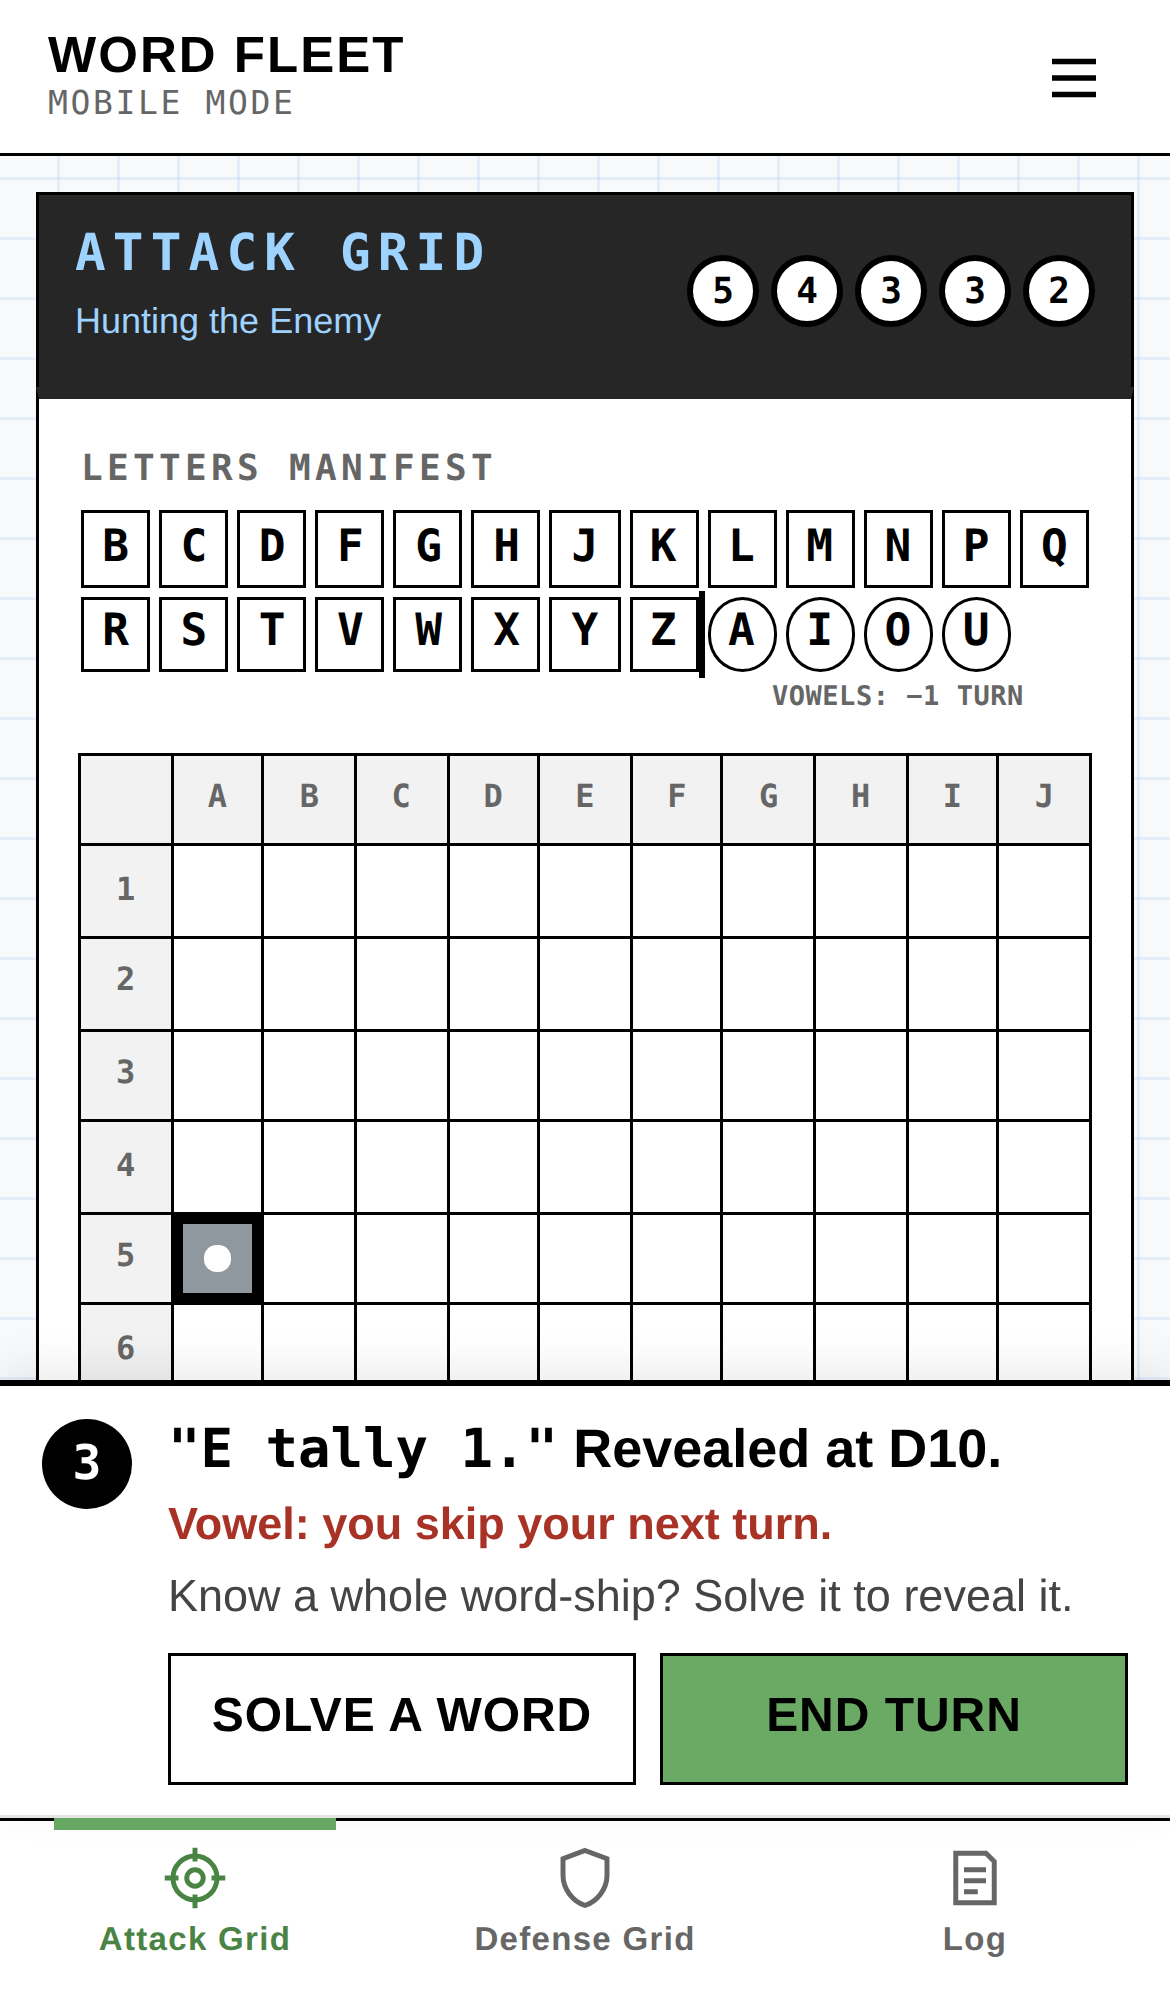
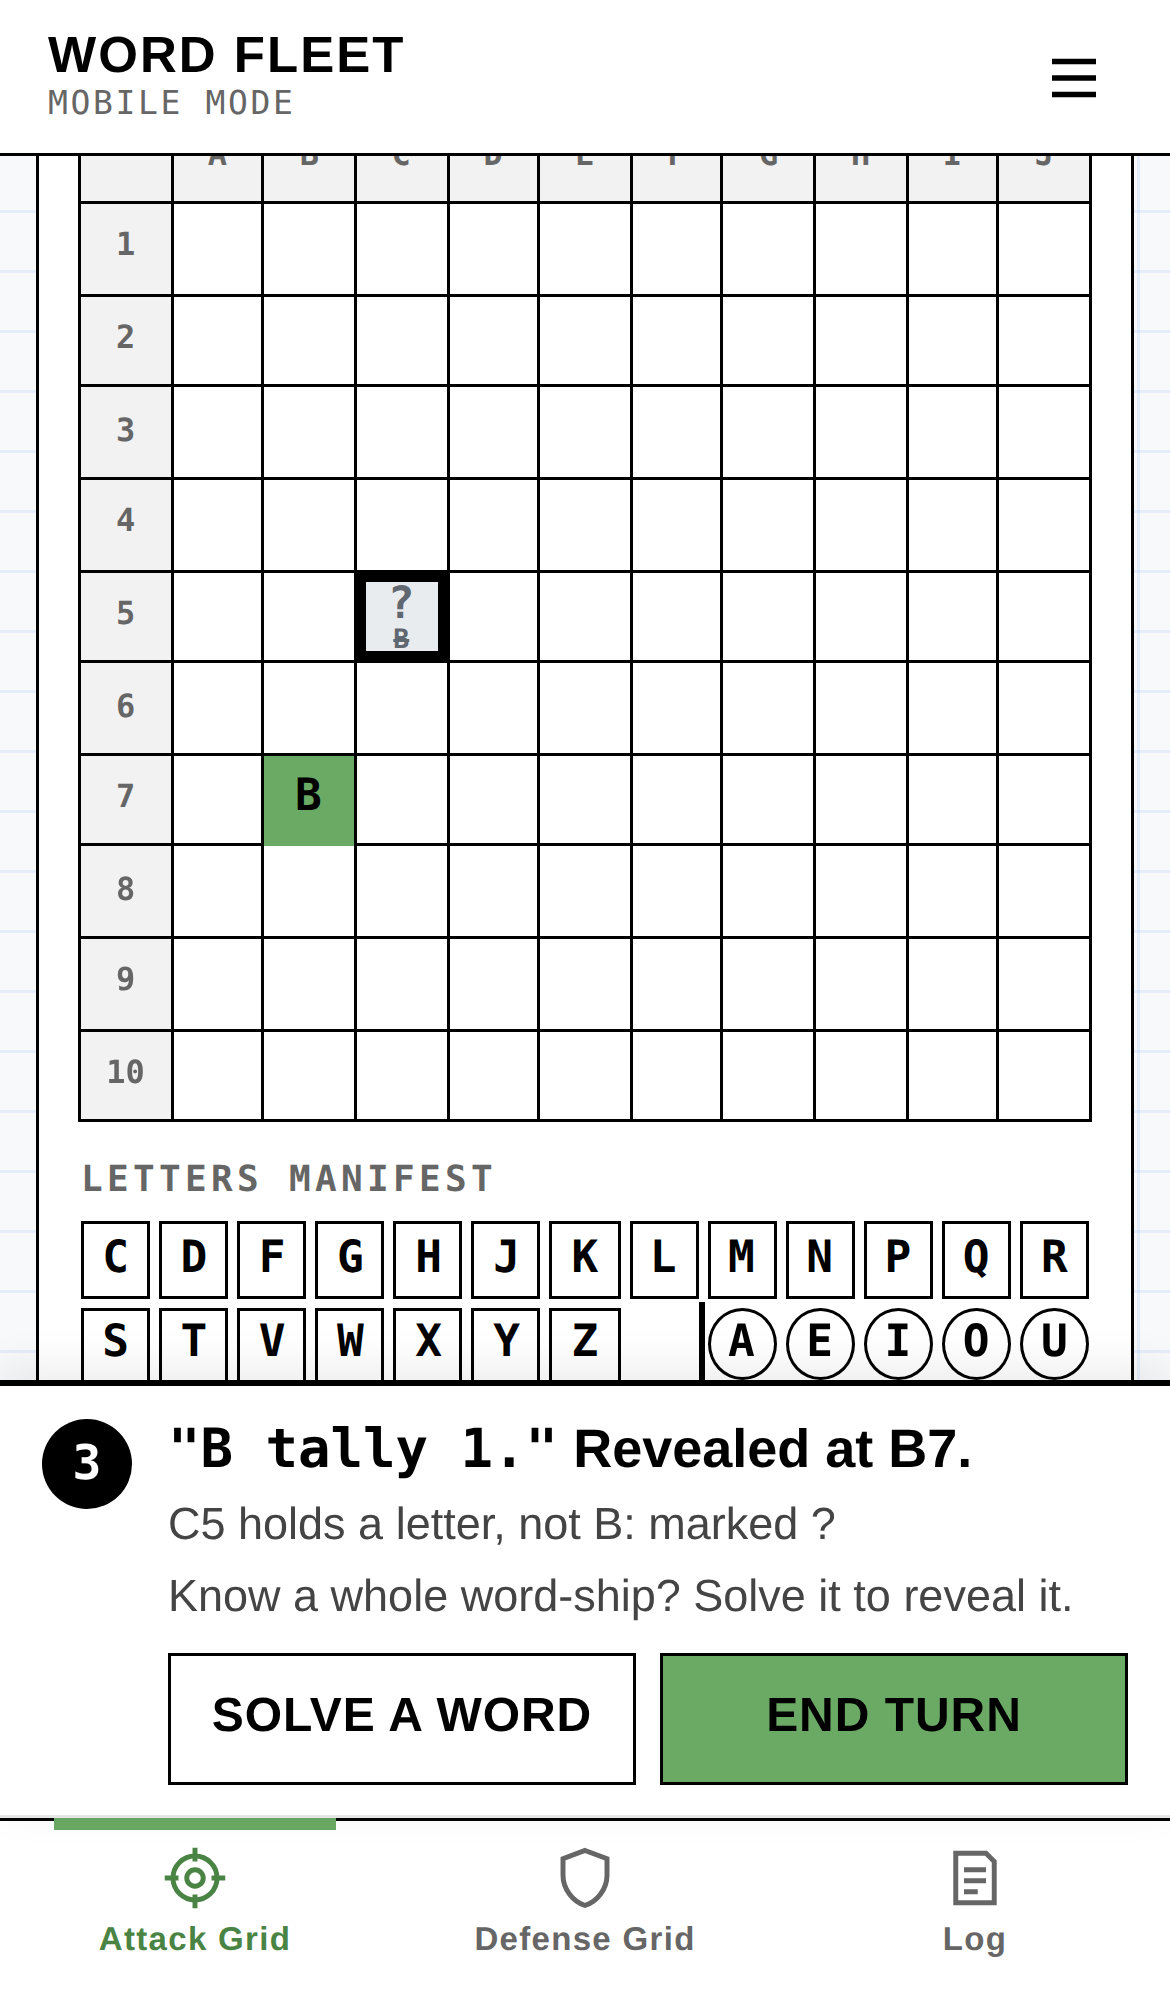
Contact squares and letters manifests under the grids
A square known to hold a hidden letter shows a gray ? with the letters ruled out
there; the Defense Grid marks the AI Captain's the same way. Both letters manifests
move under their grid; aiming scrolls the manifest clear of the coach bar. v131.

Claude-Session: https://claude.ai/code/session_013sUGAAEC45a1EJCrQWVj9Q

diff --git a/mobile/app.js b/mobile/app.js
@@ -738,7 +738,7 @@
   // Can the Human Captain pick a square and call a letter right now?
   function canCall() { return S.turn === 'me' && (!S.result || S.result.bonus) && !ui.demand; }
 
-  // Tapping a hidden square aims at it; the Letters Manifest above the grid then takes the letter.
+  // Tapping a hidden square aims at it; the Letters Manifest under the grid then takes the letter.
   // Tapping the same square again cancels the aim.
   function openManifest(k) {
     if (!canCall()) return;
@@ -748,8 +748,12 @@
     if (S.result && S.result.bonus) S.result = null;
     sfx('select');
     renderAttack();
-    var strip = $('uncalled');
-    if (strip && strip.scrollIntoView) strip.scrollIntoView({ block: 'nearest', behavior: 'smooth' });
+    // Bring the manifest (under the grid) into view above the coach bar.
+    var strip = $('uncalled'), coach = $('coach');
+    if (strip && coach) {
+      var gap = strip.getBoundingClientRect().bottom - coach.getBoundingClientRect().top + 12;
+      if (gap > 0) window.scrollBy({ top: gap, behavior: 'smooth' });
+    }
   }
 
   function renderAttack() {
@@ -765,7 +769,8 @@
     paint($('gridAttack'), function (r, c) {
       var k = key(r, c);
       var s = S.myShots[k];
-      var o = s && s.letter ? { cls: 'is-bull', text: s.letter, off: true } : s && s.empty ? { cls: 'is-empty', off: true } : {};
+      var o = s && s.letter ? { cls: 'is-bull', text: s.letter, off: true } : s && s.empty ? { cls: 'is-empty', off: true } :
+        s && s.tried ? { cls: 'is-contact', text: '<span class="q">?</span>' + triedHtml(s) } : {};
       if (ui.sel === k && !(s && s.letter)) o.cls = (o.cls || '') + ' is-target';
       // The story of your call, told on the grid: new letters flip in one by one, and the square
       // you aimed at keeps a marker (gold ✓ when the letter was there) until your turn ends.
@@ -837,7 +842,7 @@
       if (hint) sub.push('It calls a letter on your fleet. Watch the Defense Grid.');
     } else if (ui.sel) {
       step = '2'; main = 'Call a letter for <b>' + coordK(ui.sel) + '</b>: tap it in the Letters Manifest.';
-      if (hint) sub.push('Tap another square to re-aim, or ' + coordK(ui.sel) + ' again to cancel. Vowels (red) cost your next turn.');
+      if (hint) sub.push('Tap another square to re-aim, or ' + coordK(ui.sel) + ' again to cancel. Vowels (round) cost your next turn.');
     } else if (r && info && info.bonus) {
       cls = 'is-bonus'; step = '\u2605';
       main = 'Bonus turn! <b>' + info.L + '</b> was at <b>' + coordK(info.k) + '</b>. Tap another square.';
@@ -847,6 +852,7 @@
       step = '3';
       main = '<span class="say">"' + info.L + ' tally ' + info.t + '."</span> ' +
         (info.t ? 'Revealed at ' + info.cells.map(coordK).join(', ') + '.' : info.open ? coordK(info.k) + ' is open water.' : info.L + ' isn\'t in their fleet.');
+      if (!info.open && !info.bonus) sub.push(coordK(info.k) + ' holds a letter, not ' + info.L + ': marked ?');
       if (info.vowel) sub.push('<span class="coach-warn">Vowel: you skip your next turn.</span>');
       if (r.solveRes) sub.push('Solve ' + r.solveRes.word + ': ' + (r.solveRes.ok ? '<b>Correct.</b>' : '<b>Negative.</b>'));
       else if (hint && r.solve) sub.push('Know a whole word-ship? Solve it to reveal it.');
@@ -869,6 +875,8 @@
       sub.map(function (x) { return '<div class="coach-sub">' + x + '</div>'; }).join('') +
       (btns ? '<div class="coach-btns">' + btns + '</div>' : '') + '</div>';
     fitButtons(el);
+    // Leave room to scroll the bottom of the tab (the letters manifest) clear of the coach bar.
+    document.documentElement.style.setProperty('--coach-h', el.offsetHeight + 'px');
   }
 
   function renderDefense() {
@@ -885,10 +893,10 @@
       var k = key(r, c);
       var cell = b[k];
       var s = S.foeShots[k];
-      var cls = cell ? 'is-ship' + (s && s.letter ? ' is-ship-lost' : '') : s && s.empty ? 'is-empty' : '';
+      var cls = cell ? 'is-ship' + (s && s.letter ? ' is-ship-lost' : s && s.tried ? ' is-contact' : '') : s && s.empty ? 'is-empty' : '';
       if (ui.tab === 'Defense' && (S.incoming || []).some(function (e) { return e.square === k; })) cls += ' is-aimed';
       if (flashing && ev.cells && ev.cells.indexOf(k) !== -1) cls += ' is-flash';
-      return { cls: cls, text: cell ? cell.letter : '' };
+      return { cls: cls, text: cell ? cell.letter + triedHtml(s) : '' };
     }, false);
     // Letters the AI Captain has not called yet; the ones in your fleet (still at risk) are outlined in your colors.
     var mineCount = letterCounts(S.me.words);
@@ -923,6 +931,18 @@
   }
 
   // Every square holding L is revealed, wherever it is. Returns the newly revealed squares.
+  // A square known to hold a letter that is still hidden: remember the letters ruled out there.
+  function markContact(shots, k, L) {
+    var s = shots[k] || {};
+    if (s.letter) return;
+    s.tried = (s.tried || []).concat(L);
+    shots[k] = s;
+  }
+  // The ruled-out letters, small along the bottom of the square (the last three).
+  function triedHtml(s) {
+    return s && s.tried && !s.letter ? '<span class="tried">' + s.tried.slice(-3).join('') + '</span>' : '';
+  }
+
   function revealLetter(shots, board, L) {
     var cells = [];
     Object.keys(board).forEach(function (k) {
@@ -974,6 +994,7 @@
     S.notice = null;
     ui.sel = null;
     if (!at) S.myShots[k] = { empty: true };   // open water: marked with a white dot
+    else if (!bonus) markContact(S.myShots, k, L);   // holds another letter: marked ? with L ruled out
     if (vowel) S.skip.me = true;
     var cells = revealLetter(S.myShots, foeBoard(), L);
     ui.flash = cells;
@@ -1200,7 +1221,7 @@
     }
     if (best) return best;
     var hidden = [];
-    for (var r = 0; r < 10; r++) for (var c = 0; c < 10; c++) if (!sh[key(r, c)]) hidden.push(key(r, c));
+    for (var r = 0; r < 10; r++) for (var c = 0; c < 10; c++) { var h = sh[key(r, c)]; if (!h || !(h.letter || h.empty)) hidden.push(key(r, c)); }
     return pick(hidden);
   }
 
@@ -1236,6 +1257,7 @@
     S.turns++;
     S.foeTallies[L] = t;
     if (!at) S.foeShots[k] = { empty: true };
+    else if (!bonus) markContact(S.foeShots, k, L);
     if (vowel) S.skip.foe = true;
     var ev = { letter: L, square: k, tally: t, vowel: vowel, bonus: bonus, cells: revealLetter(S.foeShots, myBoard(), L) };
     log('foe', coordK(k) + ': "Calling ' + NATO[L] + '!" &mdash; <span class="say">"' + L + ' tally ' + t + '."</span>' +

diff --git a/mobile/index.html b/mobile/index.html
@@ -18,7 +18,7 @@
   <link rel="preconnect" href="https://fonts.gstatic.com" crossorigin>
   <link href="https://fonts.googleapis.com/css2?family=Courier+Prime:wght@400;700&family=Inter:wght@400;500;600;700&display=swap" rel="stylesheet">
   <!-- Bump ?v= on every release (and CACHE in sw.js) so a new page never runs old code. -->
-  <link rel="stylesheet" href="app.css?v=130">
+  <link rel="stylesheet" href="app.css?v=131">
 </head>
 <body>
 
@@ -154,8 +154,8 @@
       </div>
       <div class="card card--flush card--attack">
         <!-- Letters still to call; they disappear as you call them (called ones show on the grid) -->
-        <div class="uncalled" id="uncalled" aria-label="Letters not yet called"></div>
         <div class="grid" id="gridAttack"></div>
+        <div class="uncalled" id="uncalled" aria-label="Letters not yet called"></div>
       </div>
     </div>
 
@@ -169,8 +169,8 @@
       </div>
       <div class="card card--flush card--defense">
         <!-- Letters the AI Captain hasn't called yet; yours (still at risk) outlined in your colors -->
-        <div class="uncalled" id="defUncalled" aria-label="Letters the AI Captain has not called yet"></div>
         <div class="grid" id="gridDefense"></div>
+        <div class="uncalled" id="defUncalled" aria-label="Letters the AI Captain has not called yet"></div>
       </div>
     </div>
 
@@ -243,7 +243,7 @@
 <div class="coach coach--notice" id="notice" role="alert" aria-live="assertive" hidden></div>
 <div class="bonus-banner" id="bonusBanner" role="status" aria-live="assertive" hidden></div>
 
-<script src="audio.js?v=130"></script>
-<script src="app.js?v=130"></script>
+<script src="audio.js?v=131"></script>
+<script src="app.js?v=131"></script>
 </body>
 </html>

diff --git a/mobile/app.css b/mobile/app.css
@@ -710,3 +710,16 @@ button.uc:active { background: var(--mine, var(--navy)); color: var(--mine-ink, 
 .uc.is-vowel { border-radius: 50%; aspect-ratio: 1 / 1; }
 .uc-vowels-cap { grid-row: 4; grid-column: 9 / -1; font-family: var(--mono); font-size: 9px; font-weight: 700; letter-spacing: 0.02em;
   text-transform: uppercase; color: var(--muted); text-align: right; white-space: nowrap; overflow: hidden; }
+
+/* A square known to hold a hidden letter: "?" plus the letters already ruled out there */
+.cell.is-contact { background: #e9ecef; }
+.cell.is-contact .q { color: #5f6770; margin-top: -18%; }
+.cell .tried { position: absolute; left: 0; right: 0; bottom: 1px; font-size: max(8px, calc(var(--cell) * 0.3)); line-height: 1; font-weight: 700;
+  letter-spacing: 0; text-align: center; color: #5f6770; }
+.cell.is-target .q, .cell.is-target .tried { color: var(--paper); }
+.cell.is-ship.is-contact { background: var(--blue-wash); box-shadow: inset 0 0 0 2px #5f6770; }
+.cell.is-ship .tried { color: var(--ink); }
+
+/* Letters manifests sit under their grid, inside the grid's card */
+.uncalled { padding: 10px 2px 2px; }
+#scrBattle .tab { padding-bottom: calc(var(--coach-h, 150px) + 16px); }

diff --git a/mobile/sw.js b/mobile/sw.js
@@ -1,11 +1,11 @@
 /* Word Fleet service worker: the whole game works offline once loaded. */
-var CACHE = 'wordfleet-v130';
+var CACHE = 'wordfleet-v131';
 var SHELL = [
   './',
   'index.html',
-  'app.css?v=130',
-  'app.js?v=130',
-  'audio.js?v=130',
+  'app.css?v=131',
+  'app.js?v=131',
+  'audio.js?v=131',
   'manifest.webmanifest',
   'icons/icon-180.png',
   'icons/icon-192.png',

diff --git a/mobile/screens/README.md b/mobile/screens/README.md
@@ -13,9 +13,9 @@ referred to by name when asking for changes. Each has a reference snapshot in th
 | **003-MOBILE-WORD-SHIPS** | `<section id="scrWords" data-screen="003-MOBILE-WORD-SHIPS">`, `SCREENS.words` | `003-mobile-word-ships.png` | Header line: your flag and fleet name. Card title "Build Your Word-Ships". "Allow possibly offensive words" switch ("Applies to both fleets. Switching it draws five new word-ships."): flipping it either way redraws all five words to follow the new setting. With it on, possibly offensive words come up slightly more often (a 10% nudge per word, `OFFENSIVE_NUDGE`); never-suggested words still never do. Suggested and redrawn words always come from the chosen AI Captain's word level. Section "Check your five word-ships" with ↻ REBUILD ALL; "Tap any word-ship to type your own." Possibly offensive words show in red. Each word has a ↻ redraw; a typed word is checked against the dictionary when its box loses focus, and all are checked on "NEXT: DEPLOY" (75%). Back. |
 | *(notices, 001-004)* | `#notice` (`showNotice`, `toast`, `setupNotice` in app.js) | `notice-003.png` | Prepare-section notices use the battle coach bar's look: docked at the bottom, a red **!** marker, the first sentence bold and the rest smaller. 003 shows word-ship problems there until fixed; 004 flashes "won't fit" for a moment. |
 | **004-MOBILE-DEPLOY** | `<section id="scrDeploy" data-screen="004-MOBILE-DEPLOY">`, `SCREENS.deploy` | `004-mobile-deploy.png` | Step 4 of 4 of Prepare for Battle, same look as 001-003; header line: your flag and fleet name. Card title "Deploy Your Fleet", then the Defense Grid dressed like the in-game one ("DEFENSE GRID PREVIEW" banner with your fleet name under it, in your fleet's colors from 001: color 1 behind, color 2 for the text, color 1 along the top edge). Opens with the five word-ships already deployed at random, in green; they never leave the grid. Section "Keep this layout or rearrange it" with ⇄ SHUFFLE (new random layout); drag a ship to move it, double-tap its first letter to turn it. "LET THE BATTLE BEGIN!" (progress bar full), Back. |
-| **005-MOBILE-ATTACK** | `<div id="tabAttack" data-screen="005-MOBILE-ATTACK">` in `#scrBattle`; coach bar `#coach` | `005-mobile-attack.png`, `005-mobile-bonus-turn.png`, `005-mobile-solve.png` | Battle, Attack Grid tab: the Attack Grid under a banner in your fleet colors ("ATTACK GRID / Hunting the Enemy"), with the **Letters Manifest** strip above the grid: every letter not yet called, each dropping out once called: consonants first, then the vowels set apart at the end of the second row as round chips behind a divider, captioned "VOWELS: −1 TURN". The AI Letters Manifest on the Defense Grid uses the same layout. Tap a square to aim (the manifest lights up and its letters become buttons), then tap a letter to call it; tap another square to re-aim or the same square to cancel. There is no letter-picker popup. Called letters show on the grid. The **coach bar** above the tabs always says what to do next, with a step marker and at most two buttons: ① "Your turn. Tap a square to aim." (with everything since your last turn folded into one line above it, e.g. "AI: E at A9 (0) · you lost a turn (vowel)") → ② "Call a letter for D4" → ③ '"T tally 2." Revealed at D6, C6' with SOLVE A WORD and END TURN; ★ gold for a bonus turn; "AI Captain is aiming…" on its turn. The grid tells the story: new letters flip in one by one, the aimed square keeps a marker (gold ✓ when the letter was there), the called letter drops out of the Letters Manifest. Bonus turn also plays the bell-and-fanfare and flashes "★ BONUS TURN!". Longer hints for a captain's first two calls, or with Hints on in the ☰ menu. Solve a Word (`005-MOBILE-SOLVE`) and Demand Surrender (009, ☰ menu only) are the only popups. The AI's turn no longer jumps to the Defense tab; its tab gets a red dot. |
-| **006-MOBILE-CALL-LETTER** | state of 005: `#uncalled.is-picking` | `006-mobile-call-letter.png` | No longer a popup. After you tap a hidden square, the Letters Manifest above the Attack Grid is outlined in orange, reads "LETTERS MANIFEST · FOR D4", and its letters become buttons. Coach bar step ②. |
-| **007-MOBILE-DEFENSE** | `<div id="tabDefense" data-screen="007-MOBILE-DEFENSE">` | `007-mobile-defense.png` | Battle, Defense Grid tab, built like the Attack Grid but in your fleet colors: banner "DEFENSE GRID" with your fleet name and your five ship circles (a circle turns red only when the AI Captain has revealed that whole word-ship), then your fleet with the AI Captain's picks. No incoming-fire box and no manifest on the tab: the AI Captain's moves are reported in the coach bar, and an "AI Letters Manifest" strip above the grid (matching the Attack Grid) shows the letters the AI Captain has not called yet, with the ones in your fleet filled in your colors. |
+| **005-MOBILE-ATTACK** | `<div id="tabAttack" data-screen="005-MOBILE-ATTACK">` in `#scrBattle`; coach bar `#coach` | `005-mobile-attack.png`, `005-mobile-bonus-turn.png`, `005-mobile-solve.png` | Battle, Attack Grid tab: the Attack Grid under a banner in your fleet colors ("ATTACK GRID / Hunting the Enemy"), with the **Letters Manifest** strip under the grid: every letter not yet called, each dropping out once called: consonants first, then the vowels set apart at the end of the second row as round chips behind a divider, captioned "VOWELS: −1 TURN". The AI Letters Manifest on the Defense Grid uses the same layout. Tap a square to aim (the manifest lights up and its letters become buttons), then tap a letter to call it; tap another square to re-aim or the same square to cancel. There is no letter-picker popup. Called letters show on the grid. A square known to hold a letter (you aimed there and called a different one) shows a gray "?" with the letters ruled out there in small gray type along the bottom (the last three); it can be aimed at again. Your Defense Grid marks the AI Captain's squares the same way: an outline plus the letters it has ruled out. The **coach bar** above the tabs always says what to do next, with a step marker and at most two buttons: ① "Your turn. Tap a square to aim." (with everything since your last turn folded into one line above it, e.g. "AI: E at A9 (0) · you lost a turn (vowel)") → ② "Call a letter for D4" → ③ '"T tally 2." Revealed at D6, C6' with SOLVE A WORD and END TURN; ★ gold for a bonus turn; "AI Captain is aiming…" on its turn. The grid tells the story: new letters flip in one by one, the aimed square keeps a marker (gold ✓ when the letter was there), the called letter drops out of the Letters Manifest. Bonus turn also plays the bell-and-fanfare and flashes "★ BONUS TURN!". Longer hints for a captain's first two calls, or with Hints on in the ☰ menu. Solve a Word (`005-MOBILE-SOLVE`) and Demand Surrender (009, ☰ menu only) are the only popups. The AI's turn no longer jumps to the Defense tab; its tab gets a red dot. |
+| **006-MOBILE-CALL-LETTER** | state of 005: `#uncalled.is-picking` | `006-mobile-call-letter.png` | No longer a popup. After you tap a hidden square, the Letters Manifest under the Attack Grid is outlined in orange, reads "LETTERS MANIFEST · FOR D4", and its letters become buttons. Coach bar step ②. |
+| **007-MOBILE-DEFENSE** | `<div id="tabDefense" data-screen="007-MOBILE-DEFENSE">` | `007-mobile-defense.png` | Battle, Defense Grid tab, built like the Attack Grid but in your fleet colors: banner "DEFENSE GRID" with your fleet name and your five ship circles (a circle turns red only when the AI Captain has revealed that whole word-ship), then your fleet with the AI Captain's picks. No incoming-fire box and no manifest on the tab: the AI Captain's moves are reported in the coach bar, and an "AI Letters Manifest" strip under the grid (matching the Attack Grid) shows the letters the AI Captain has not called yet, with the ones in your fleet filled in your colors. |
 | **008-MOBILE-LOG** | `<div id="tabLog" data-screen="008-MOBILE-LOG">` | `008-mobile-log.png` | Battle, Log tab: small "CAPTAIN'S LOG" then your flag and fleet name, as on the Prepare screens. Below, newest on top, a plain list with an ⚓ bullet on every entry; your moves and the AI Captain's show that side's flag and fleet name, Fleet Command notices are just the text. |
 | **009-MOBILE-SURRENDER** | the Attack popup in Demand Surrender mode (open it from the ☰ menu), `#panelSheet[data-screen="009-MOBILE-SURRENDER"]` | `009-mobile-surrender.png` | Name every AI word-ship, its first square and heading; "I Demand Your Surrender!" asks once more before it counts. |
 | **010-MOBILE-GAME-OVER** | `<section id="scrOver" data-screen="010-MOBILE-GAME-OVER">`, `SCREENS.over` | `010-mobile-game-over.png` | Result (no chip in the header), stats, New Battle, and both fleets revealed, each with its flag: the AI Captain's fixed Signal Orange & Black (`FOE_SCHEME`, bright background with dark text, the reverse of every player scheme) and yours in your scheme. |
